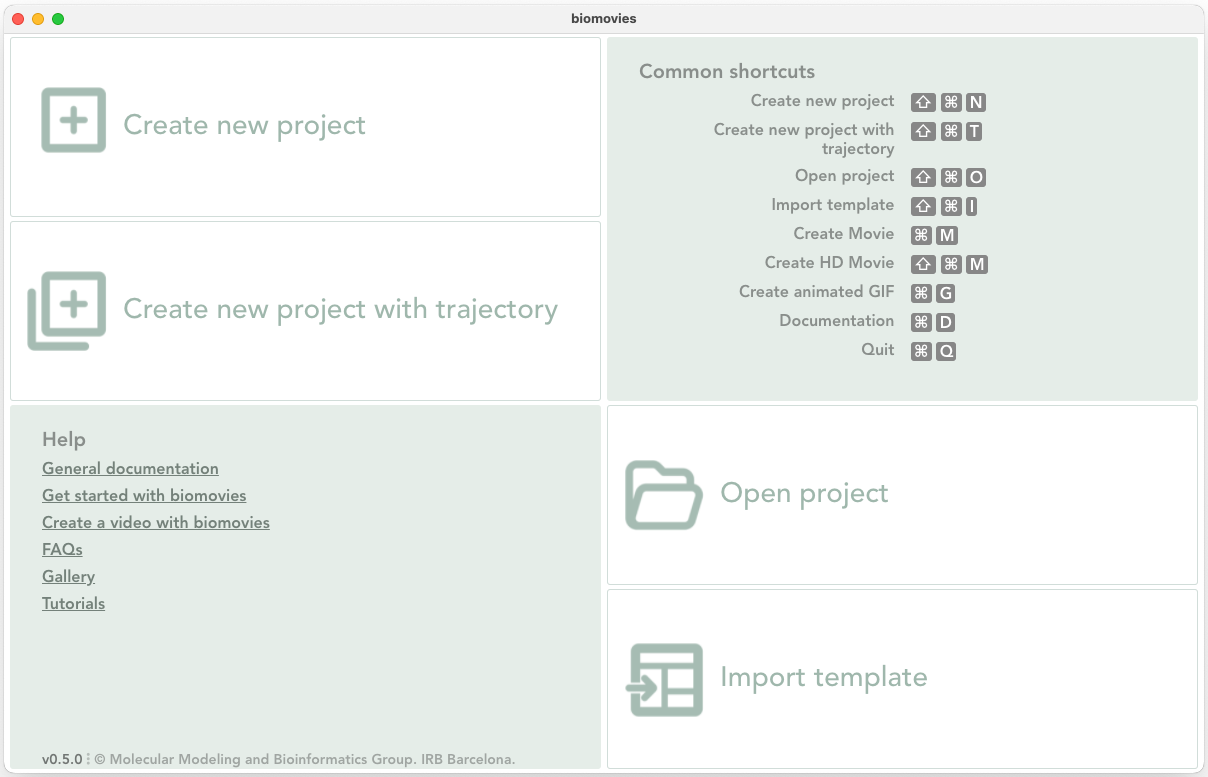
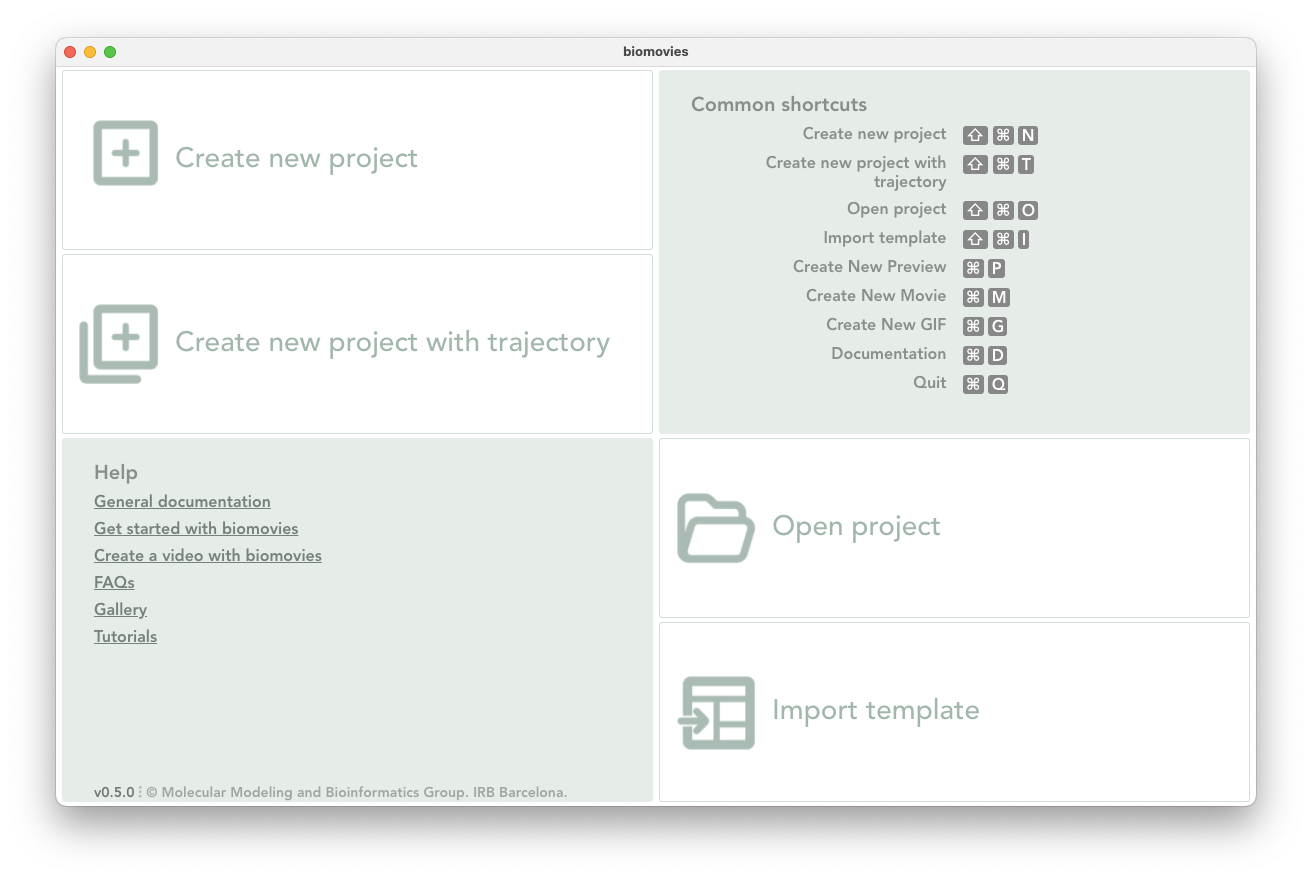
Interface > Representations > Stage

Changed region(s): [[0.0, 0.0, 1.0, 1.0], [0.4594, 0.0, 0.827, 0.4633], [0.4901, 0.556, 0.7351, 0.7104]]

diff --git a/docs/source/interface.md b/docs/source/interface.md
@@ -44,6 +44,8 @@ Clicking this button **opens a modal dialog** to edit the **distances and angles
 
 <img src="_static/interface/representations/tools/tools03a.png" style="max-width:500px;" />
 
+##### Distances
+
 **Distances** editor before editing size and color:
 
 <img src="_static/interface/representations/tools/tools03b.png" style="max-width:500px;" />
@@ -53,6 +55,8 @@ Clicking this button **opens a modal dialog** to edit the **distances and angles
 <img src="_static/interface/representations/tools/tools03c.png" style="max-width:525px;" />
 
 If **only a distance** is needed (**without label**), please set **0 as Label siz**e.
+
+##### Angles
 
 **Angles** editor before editing size and color:
 
@@ -138,15 +142,41 @@ Click **again** on the button for **removing** the stripes from the stage.
 
 ### Stage
 
+<img src="_static/interface/representations/stage/stage.png" style="max-width:600px;" />
+
 The **stage** covers the main part of the screen. In the stage the **structure is loaded** and **represented**, and users can interact with it in several ways.
 
 #### Zoom / Drag
+
+Before applying **rotation**, **translation** or **zoom** to the stage, a [**keyframe must be selected in the timeline**](TODOOOO).
+
+Actions of **zoom in** and **zoom out** can be done with the **scroll mouse or the trackpad** of a laptop:
+
+* Clicking on the stage with the **left button** and **dragging will rotate the view**.
+
+* Clicking on the stage with the **right button** and **dragging will translate the view**.
+
+* Mouse wheel (or using the trackpad with two fingers) on the stage will **zoom in** or **zoom out**.
+
+All these modifications in the **general orientation** of the structure will be applied to the **selected keyframe**. That means that, in a **clip**, the **first** and the **last frame** can have different **rotation**, **translation** or **zoom**. **Biomovies** will take care of the **interpolation** between frames.
+
+<img src="_static/interface/representations/stage/stage01.gif" style="margin-bottom:0;" />
+
+<span style="font-size:12px;">Automatic transition between two frames with different orientations</span>
 
 #### Mouse actions
 
 ##### Mouse over actions
 
+Passing the mouse over the molecules of the structure will **highlight** them and show **their information** in the **legend** on the bottom right of the stage. [**Click here**](#enable-disable-legend) to see how to enable the legend.
+
 ##### Mouse click actions
+
+* Clicking with the mouse **left button** on an atom while pressing the **Alt or ⌥ key** will **place a Label** close to this atom. [**Click here**](#labels) to see how to edit labels.
+
+* Clicking **consecutively on two atoms** with the mouse **left button** will draw and calculate the **distance** in **ångströms** between these two atoms. [**Click here**](#distances) to see how to edit distances.
+
+* Clicking **consecutively on three atoms** with the mouse **right button** while pressing the **Ctrl key** will draw and calculate the **angle** in **degrees** between these three atoms. [**Click here**](#angles) to see how to edit angles.
 
 ## Timeline
 

diff --git a/docs/source/installation.md b/docs/source/installation.md
@@ -2,7 +2,14 @@
 
 ## macOS
 
-At the moment of launching the current release, the **Biomovies** macOS binaries are **unsigned**. That means that macOS treats them as untrusted software. Here they are the workarounds for make working both the **universal (Intel)** and **Apple silicon (arm64)** version of **Biomovies**: 
+At the moment of launching the current release, the **Biomovies** macOS binaries are **unsigned**. That means that macOS treats them as untrusted software. So, for executing it, please follow the next steps: 
+
+* Open the **Finder**.
+* Locate the **app** (it might be in the **Applications** folder, or it might still be in your **Downloads** folder).
+* **Ctrl-Click** or **right-click** on the app. 
+* Select **Open** from the resultant menu and the app will be opened anyway, and an **exception** will be created for opening it normally (i.e. by double-clicking) in future.
+
+If the above steps don't work, here they are the workarounds for make working both the **universal (Intel)** and **Apple silicon (arm64)** version of **Biomovies**: 
 
 ### Universal / Intel 
 
@@ -36,7 +43,7 @@ Now the application should work properly.
 
 ## Ubuntu
 
-For downloading the **Ubuntu** version of **Biomovies**, go to the [**website download**](https://gbayarri.github.io/biomovies/#download) section and click the _Ubuntu x64_ button. At the moment of launching the current release, there is only a **x64 architecture** binary for **Ubuntu**.
+For downloading the **Ubuntu** version of **Biomovies**, go to the [**website download**](https://gbayarri.github.io/biomovies/#download) section and click the _Ubuntu_ button (**.deb** and **.AppImage** binaries available). At the moment of launching the current release, there is only a **x64 architecture** binary for **Ubuntu**.
 
 ### deb
 
@@ -84,6 +91,14 @@ Double click **.AppImage** file.
 
 ## Windows
 
-For downloading the **Windows** version of **Biomovies**, go to the [**website download**](https://gbayarri.github.io/biomovies/#download) section and click the _Windows x64_ button. At the moment of launching the current release, there is only a **x64 architecture** binary for **Windows**.
+For downloading the **Windows** version of **Biomovies**, go to the [**website download**](https://gbayarri.github.io/biomovies/#download) section and click the _Windows_ button. At the moment of launching the current release, there is only a **x64 architecture** binary for **Windows**.
 
-TODO
+Windows treats the **Biomovies** executable file as an unrecognized app. So, after double clicking the **.exe** file, Windows will open the following window:
+
+<img src="_static/installation/image5.png" style="max-width:400px;" />
+
+Click on _More info_ and then, on _Run anyway_ button for starting the installation.
+
+
+
+

diff --git a/docs/source/introduction.md b/docs/source/introduction.md
@@ -49,12 +49,12 @@ Though we have put all our effort in making **Biomovies** a fully **cross-platfo
 | :-: | :-: | :-: | :-: |
 | **Create projects** | ✅ | ✅ | ✅
 | **Run trajectories** | ✅ | ✅ | ✅
-| **Export videos** | ✅ | ✅ | ✅
+| **Export preview videos** | ✅ | ✅ | ✅
 | **Export HD videos** | ✅ | ✅ | ✅
 | **Export animated GIFs** | ✅ | ✅ | ✅
 | **Create templates** | ✅ | ✅ | ✅
-| **Open recent** | ✅ | ❌ | ✅
-| **Dock menu / JumpList** | ✅ | ❌ | ✅
+| **Open recent** | ✅ | ❌ | ❌
+| **Dock menu / JumpList** | ✅ | ❌ | ❌
 | **Open file on double click** |  ✅ | ❌ | ❌
 
 ## Technology

diff --git a/docs/source/create_videos.md b/docs/source/create_videos.md
@@ -1,7 +1,7 @@
 # Create Videos
 
-## Create New Movie 
+## Create New Preview 
 
-## Create New HD Movie  
+## Create New Movie  
 
-## Create New Animated GIF  
+## Create New GIF  
